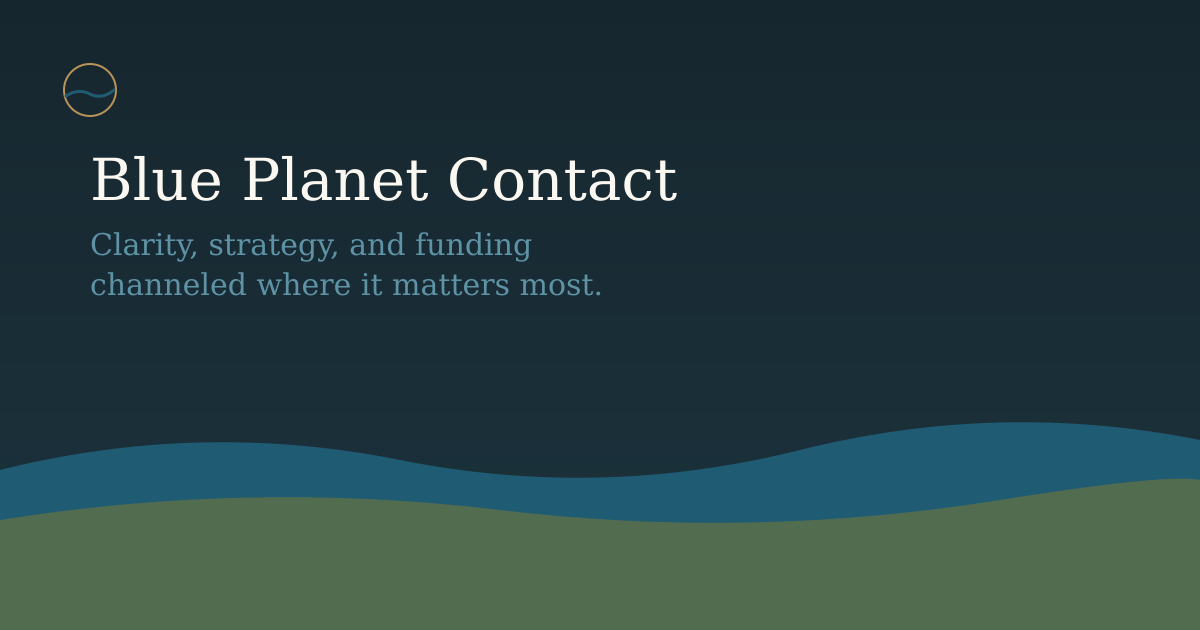
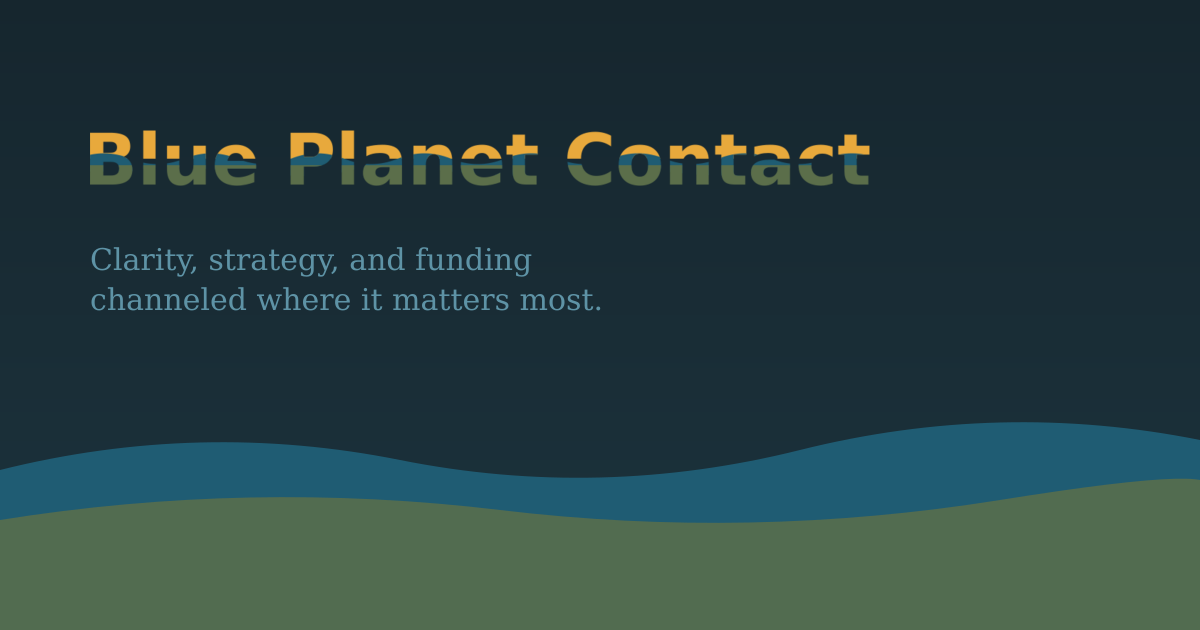
Add files via upload

Changed region(s): [[0.0308, 0.0905, 0.74, 0.3317], [0.0617, 0.3619, 0.4933, 0.5127]]

diff --git a/index.html b/index.html
@@ -61,11 +61,13 @@
     height:72px;
   }
   .wordmark{
-    font-family:'Fraunces', serif;
-    font-size:19px;
-    color:var(--cream);
+    display:flex;
+    align-items:center;
     text-decoration:none;
-    letter-spacing:0.01em;
+  }
+  .wordmark img{
+    height:26px;
+    display:block;
   }
   .navlinks{display:flex;list-style:none;flex-wrap:nowrap;}
   .navlinks li{display:block;margin-left:36px;}
@@ -344,7 +346,7 @@
 
 <header>
   <nav class="wrap">
-    <a href="#top" class="wordmark">Blue Planet Contact</a>
+    <a href="#top" class="wordmark"><img src="wordmark.png" alt="Blue Planet Contact"></a>
     <button class="navtoggle" id="navToggle" aria-label="Toggle menu">☰</button>
     <ul class="navlinks" id="navLinks">
       <li><a href="#services">Services</a></li>
